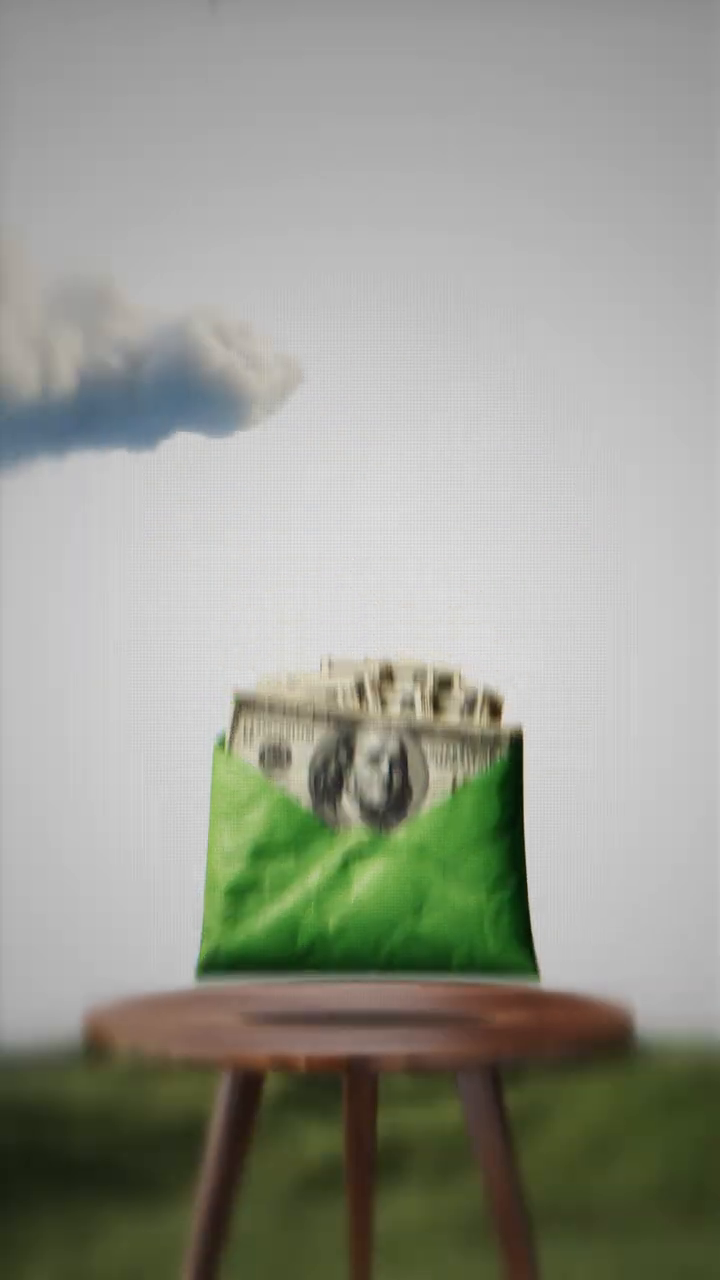
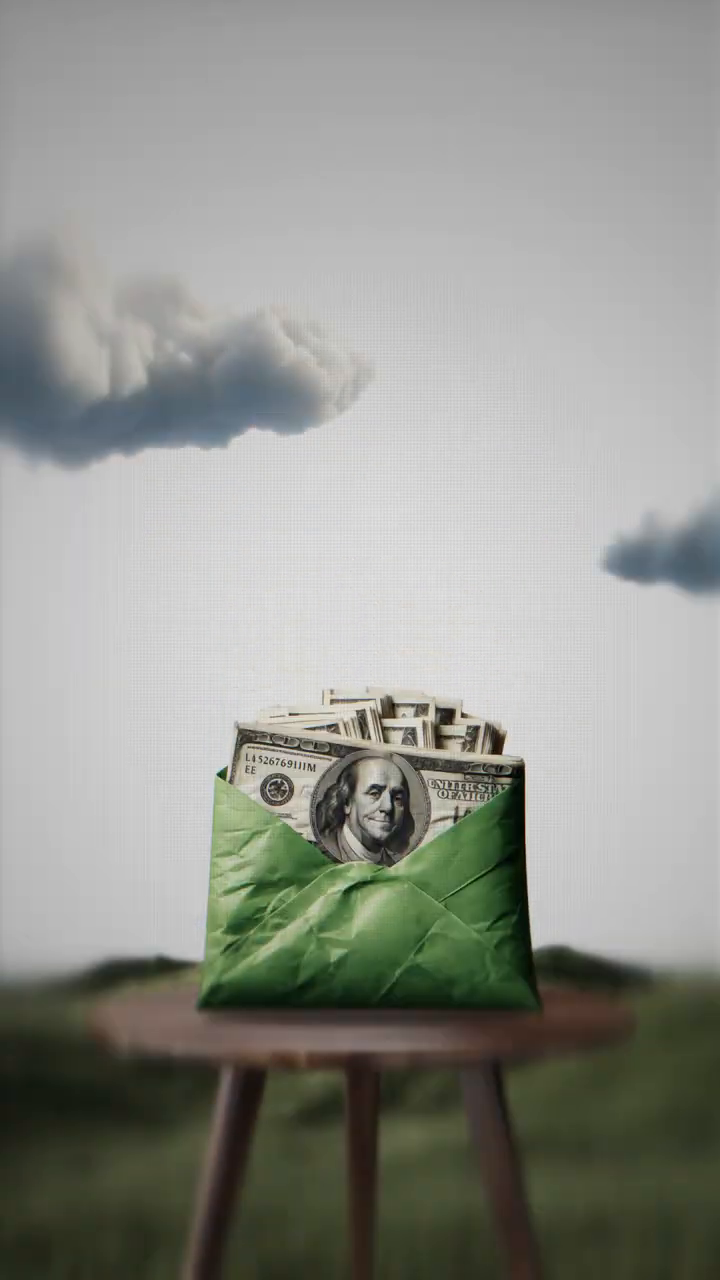
fix(v4): the shot racks focus, and 1.85 s was its softest frame
The plate that was supposed to be 'the last frame with no type in it' was 1.85 s —
which is also, measured on the bag, the softest moment of the whole shot: Laplacian
variance 46 at 1.85, 308 at 1.95, 312 at 2.05. So this scene was built on the one
frame the reference spends deliberately out of focus, and no amount of encode quality
could put detail back. That is why it read soft against the reference at every
timestamp while the decode was provably lossless.

The rack focus is now reproduced instead of being smoothed: three of the reference's
own frames in order (1.45 entry, 1.85 soft, 2.05 sharp) plus a drained copy of the
sharp one, dissolved in the measured order. The plate is 2.05 s, which is both the
sharpest moment and still free of type.

BILLION is now its own layer, cut from 1.45 s. It is gone before the plate's
timestamp and still on screen at the cut, so it could sit in no single plate; it now
leaves the frame upward and to the left over the measured 0.42 s.

diff --git a/showreel/v4/index.html b/showreel/v4/index.html
@@ -184,8 +184,15 @@
          drains them at different rates — measured, the bag goes neutral by 2.25 s
          while the field is still 4 % green at 2.05. -->
     <div class="plate" id="s5plate0" style="background-image:url('./assets/ref/s5plate-entry.png');"></div>
+    <div class="plate" id="s5plate1" style="background-image:url('./assets/ref/s5plate-soft.png'); opacity:0;"></div>
     <div class="plate" id="s5plate" style="background-image:url('./assets/ref/s5plate-base.png'); opacity:0;"></div>
     <div class="plate" id="s5plate2" style="background-image:url('./assets/ref/s5-plate.png'); opacity:0;"></div>
+    <!-- BILLION is gone before the plate's own timestamp but is still on screen at
+         the cut, so it cannot live in any plate: it is its own layer, cut from the
+         reference at 1.45 s. -->
+    <div class="layer" id="s5billion" style="left:133px; top:260px; width:467px; height:141px;
+         background:url('./assets/ref/s5-billion.png') center/100% 100% no-repeat; opacity:0;
+         will-change:transform,opacity;"></div>
     <!-- "NO" is a separate layer because it is not in the plate yet at the frame the
          plate was taken from: the reference brings HE SAID first and NO slams in
          after it. It was cut by unmixing two of the reference's own frames — the
@@ -466,10 +473,20 @@
      and the two surfaces go at different rates — the bag is neutral by 2.25 while
      the field still holds 4 % at 2.05. So the sweep is a crossfade between the
      plate and the same frame drained, not a filter on both at once. */
-  /* the entry: BILLION over the field, and the word is gone by 1.85 */
-  tl.to("#s5plate", { opacity: 1.0, duration: 0.40, ease: "power2.inOut" }, 1.33);
+  /* The shot racks focus: the bag reads 46 on Laplacian variance at 1.85 s, 312 at
+     2.05. Three of the reference's own frames carry that — the entry at 1.45, the
+     soft one at 1.85, the sharp one at 2.05 — and the fourth is the sharp one with
+     its colour drained, which is where the sweep ends. Holding them in order is the
+     rack focus and the push, with no filter standing in for either. */
+  tl.to("#s5plate1", { opacity: 1.0, duration: 0.34, ease: "power1.inOut" }, 1.33);
+  tl.to("#s5plate", { opacity: 1.0, duration: 0.20, ease: "power2.out" }, 1.85);
   tl.to("#s5plate2", { opacity: 0.55, duration: 0.45, ease: "power2.out" }, 1.36);
   tl.to("#s5plate2", { opacity: 1.0, duration: 0.42, ease: "power1.in" }, 1.83);
+  /* and BILLION leaves the way it does in the reference: out, upward and to the
+     left, gone by about 1.75 — measured, the word is over the field at 1.45 and
+     there is no dark type anywhere above the bag by 1.85. */
+  tl.to("#s5billion", { opacity: 1, duration: 0.02 }, 1.333);
+  tl.to("#s5billion", { x: -90, y: -70, opacity: 0, duration: 0.42, ease: "power2.in" }, 1.35);
 
   /* Measured arrival, not a guess: HE SAID is faint from 2.10 and solid by 2.45,
      a fade with almost no scale. NO is not there at 2.50 and is 461 px wide at

diff --git a/tools/s5_assets.py b/tools/s5_assets.py
@@ -30,7 +30,7 @@ from ffbin import ffmpeg
 
 REF = "analysis/attachment-filename-How-to-Edit-VIRAL-RE/reference.mp4"
 OUT = Path("showreel/v4/assets/ref")
-ENTRY_T, PLATE_T, CLEAN_T, FULL_T = 1.45, 1.85, 2.05, 2.95
+ENTRY_T, PLATE_T, CLEAN_T, FULL_T = 1.45, 2.05, 2.05, 2.95
 FF = ffmpeg()
 
 
@@ -75,6 +75,7 @@ def cut_out(name: str, sel: np.ndarray, full: np.ndarray) -> list[int]:
 def main() -> None:
     OUT.mkdir(parents=True, exist_ok=True)
     plate, full, clean = grab(PLATE_T), grab(FULL_T), grab(CLEAN_T)
+    clean = grab(2.05)
 
     # The shot enters with BILLION over the field and the bag further from the lens;
     # both are gone by 1.85. Neither state can be faked from the other, so the scene
@@ -83,6 +84,37 @@ def main() -> None:
     entry = grab(ENTRY_T)
     cv2.imwrite(str(OUT / "s5plate-entry.png"), cv2.cvtColor(entry, cv2.COLOR_RGB2BGR))
     print(f"  s5plate-entry.png the reference at {ENTRY_T}s — BILLION still over the field")
+
+    # The shot racks focus: measured on the bag, Laplacian variance is 46 at 1.85 s,
+    # 308 at 1.95 and 312 at 2.05 — it comes INTO focus exactly as the bag settles.
+    # The plate is therefore 2.05 s, which is both the sharpest moment and still free
+    # of type (HE does not appear until 2.10), and this scene dissolves into it from
+    # the soft 1.85 s frame, which is the rack focus, reproduced rather than smoothed
+    # away by a filter.
+    soft = grab(1.85)
+    cv2.imwrite(str(OUT / "s5plate-soft.png"), cv2.cvtColor(soft, cv2.COLOR_RGB2BGR))
+    print("  s5plate-soft.png  the reference at 1.85s — before the rack focus lands")
+
+    # BILLION as a layer. It is the one element of this shot that is gone before the
+    # plate's timestamp and still on screen at the cut, so it has to be its own thing.
+    # Cut from 1.45 s by darkness over the field: the letters are the only dark,
+    # neutral thing in that band, and the field under them is flat green.
+    g128 = cv2.cvtColor(entry, cv2.COLOR_RGB2GRAY)
+    band = np.zeros(g128.shape, np.uint8); band[90:400, 70:700] = 1
+    dark = ((g128 < 135) & (band > 0)).astype(np.uint8)
+    n2, lbl2, st2, _ = cv2.connectedComponentsWithStats(dark, 8)
+    keep2 = np.zeros_like(dark)
+    for i in range(1, n2):
+        if st2[i, cv2.CC_STAT_AREA] > 250:
+            keep2[lbl2 == i] = 1
+    al2 = cv2.GaussianBlur((keep2 * 255).astype(np.uint8), (0, 0), 0.7)
+    ys2, xs2 = np.where(al2 > 8)
+    bx0, bx1, by0, by1 = xs2.min(), xs2.max() + 1, ys2.min(), ys2.max() + 1
+    rgba2 = np.dstack([entry, al2])[by0:by1, bx0:bx1].astype(np.uint8)
+    cv2.imwrite(str(OUT / "s5-billion.png"), cv2.cvtColor(rgba2, cv2.COLOR_RGBA2BGRA))
+    json.dump({"box": [int(bx0), int(by0), int(bx1 - bx0), int(by1 - by0)]},
+              open(OUT / "s5-billion.json", "w"))
+    print(f"  s5-billion.png    {[int(bx0), int(by0), int(bx1 - bx0), int(by1 - by0)]}")
 
     for name, f in (("plate 2.05", plate), ("full 2.95", full)):
         r, g, b = f[:, :, 0], f[:, :, 1], f[:, :, 2]
